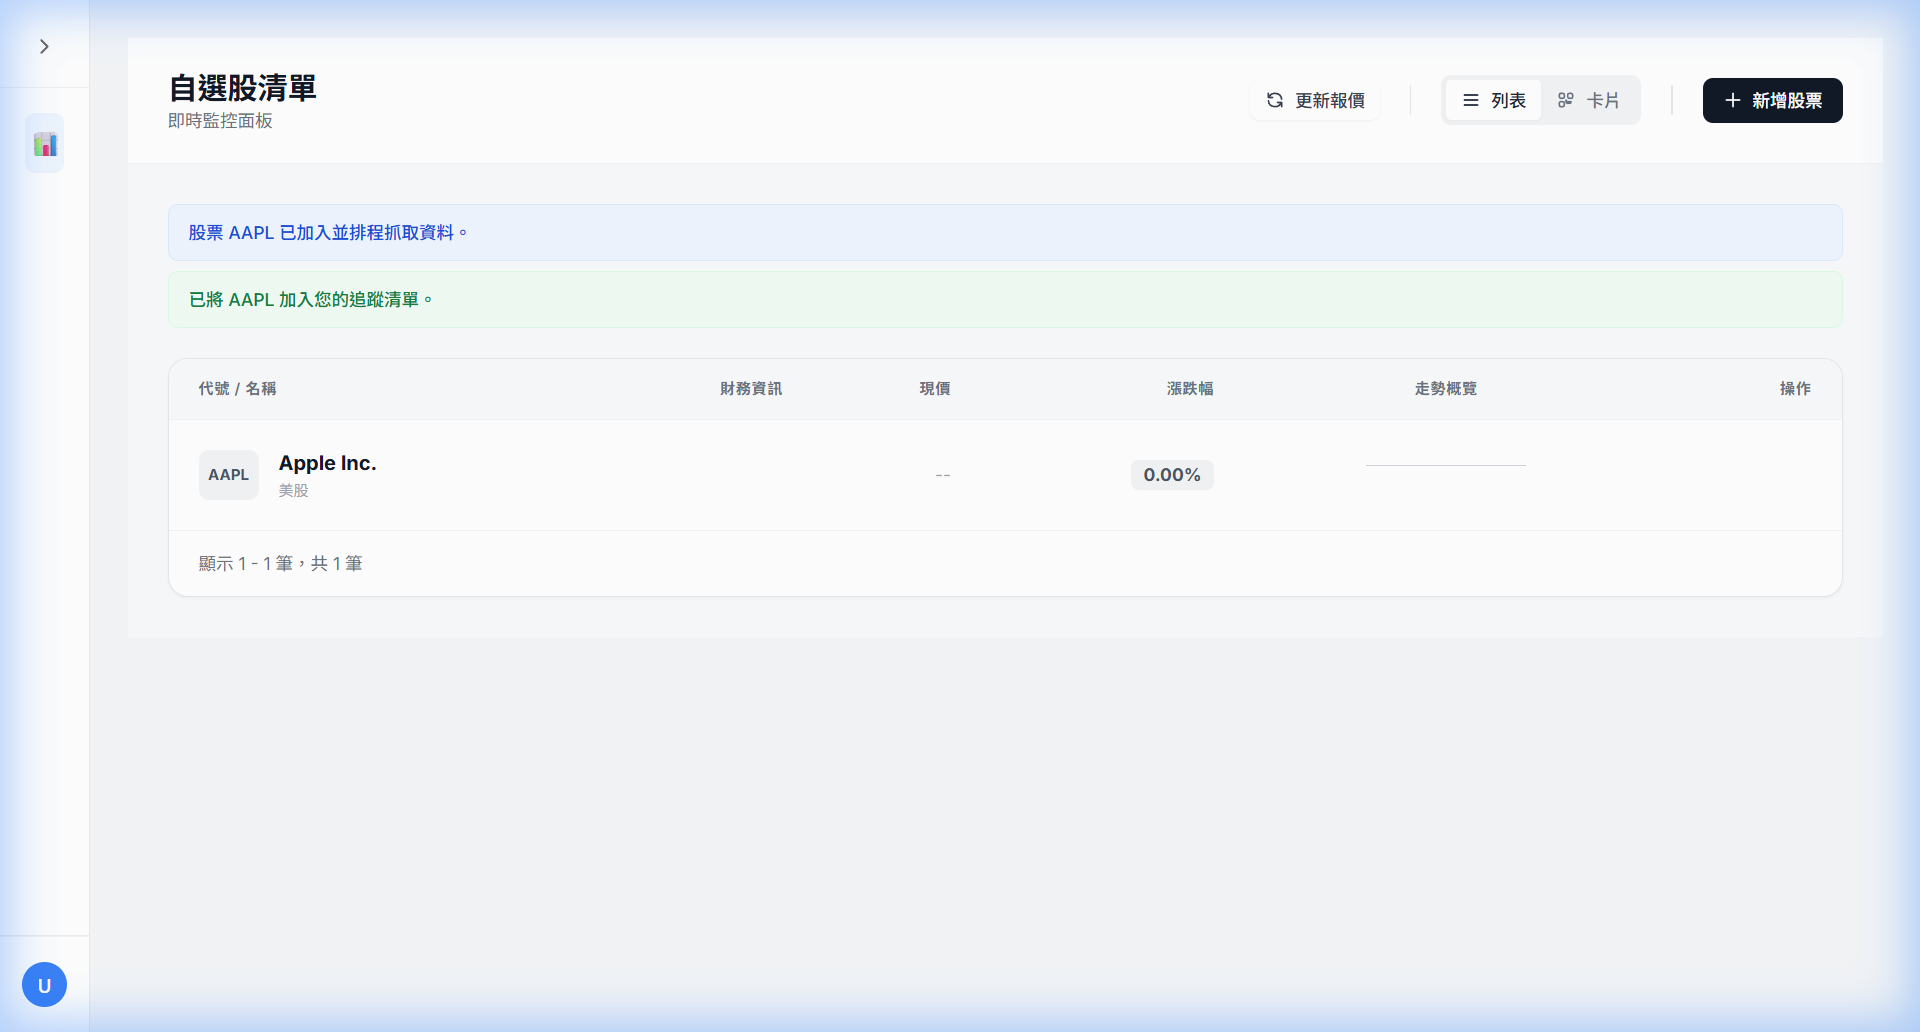
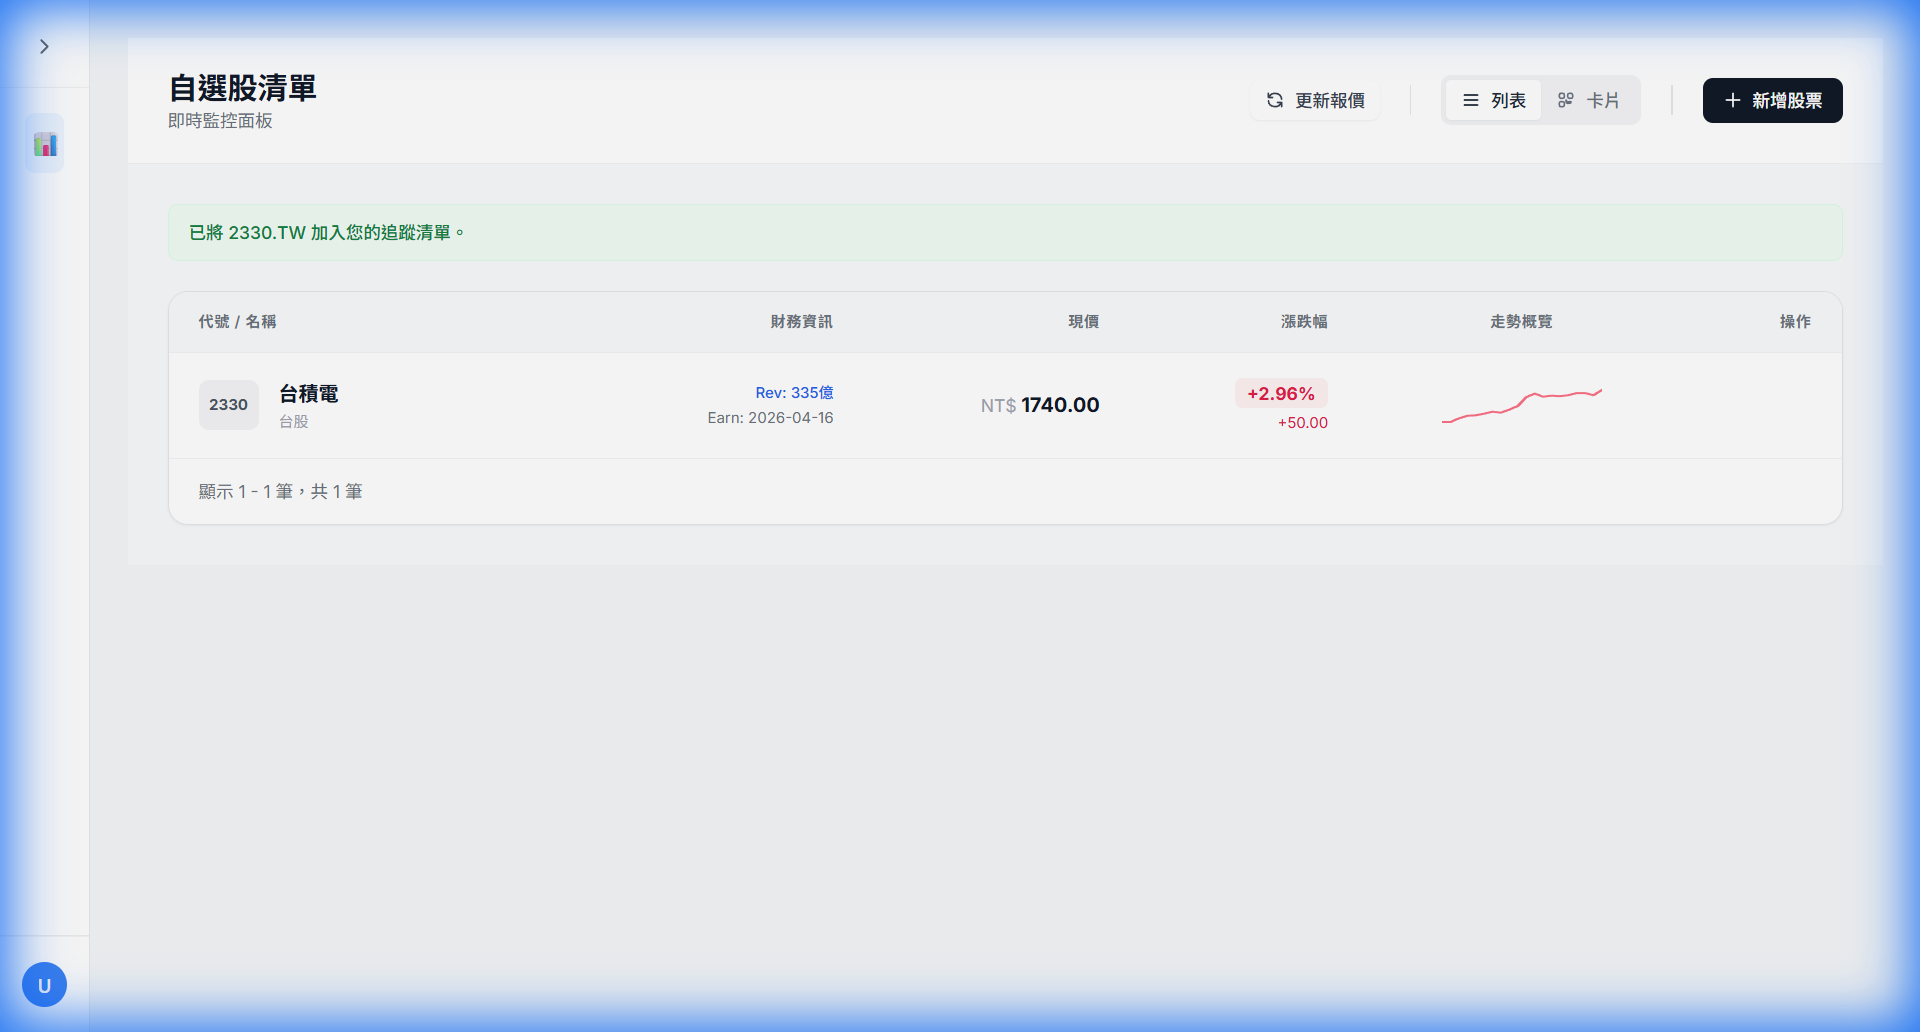
feat: 完善平台功能 - 載入動畫、通知系統、美化登入/註冊頁面、動態幣值顯示、Docker一鍵部署、更新README截圖

diff --git a/templates/dashboard.html b/templates/dashboard.html
@@ -159,14 +159,20 @@
                                 {% endif %}
                              </div>
                         </td>
-                        <td class="px-6 py-5 text-right">
+                        <td class="px-6 py-5 text-right" data-ticker="{{ item.stock.ticker }}">
                             {% if item.stock.last_price %}
-                            <div class="font-bold text-gray-900 text-base">
+                            <div class="font-bold text-gray-900 text-base price-display">
                                 <span class="text-gray-400 font-normal text-sm">{% if item.stock.market == 'TW' %}NT${% else %}${% endif %}</span>
                                 {{ item.stock.last_price }}
                             </div>
                             {% else %}
-                            <div class="text-gray-400 text-sm">--</div>
+                            <div class="loading-indicator flex items-center gap-2 text-blue-600">
+                                <svg class="animate-spin h-4 w-4" xmlns="http://www.w3.org/2000/svg" fill="none" viewBox="0 0 24 24">
+                                    <circle class="opacity-25" cx="12" cy="12" r="10" stroke="currentColor" stroke-width="4"></circle>
+                                    <path class="opacity-75" fill="currentColor" d="M4 12a8 8 0 018-8V0C5.373 0 0 5.373 0 12h4zm2 5.291A7.962 7.962 0 014 12H0c0 3.042 1.135 5.824 3 7.938l3-2.647z"></path>
+                                </svg>
+                                <span class="text-sm">載入中...</span>
+                            </div>
                             {% endif %}
                         </td>
 
@@ -505,9 +511,78 @@
             if (e.target === removeModal) removeModal.classList.add('hidden');
             if (e.target === refreshModal) refreshModal.classList.add('hidden');
         }
+        // Loading Stocks Polling
+        const loadingStocks = {{ loading_stocks_json|safe }};
+        if (loadingStocks && loadingStocks.length > 0) {
+            console.log('Polling for loading stocks:', loadingStocks);
+            
+            const pollInterval = setInterval(() => {
+                fetch('/stocks/api/check-loading-status/', {
+                    method: 'POST',
+                    headers: {
+                        'Content-Type': 'application/json',
+                        'X-CSRFToken': document.querySelector('[name=csrfmiddlewaretoken]')?.value || ''
+                    },
+                    body: JSON.stringify({ tickers: loadingStocks })
+                })
+                .then(res => res.json())
+                .then(data => {
+                    if (data.ready && data.ready.length > 0) {
+                        showNotification(`${data.ready.join(', ')} 資料已更新完成！`, 'success');
+                        clearInterval(pollInterval);
+                    }
+                })
+                .catch(err => console.log('Poll error:', err));
+            }, 5000); // Check every 5 seconds
+        }
     });
 
     // Check URL param for saved view preference (Optional enhancement)
+</script>
+
+<!-- Toast Notification Container -->
+<div id="toast-container" class="fixed bottom-4 right-4 z-50 flex flex-col gap-2"></div>
+
+<script>
+    function showNotification(message, type = 'info') {
+        const container = document.getElementById('toast-container');
+        const toast = document.createElement('div');
+        
+        const colors = {
+            success: 'bg-green-500',
+            error: 'bg-red-500',
+            info: 'bg-blue-500',
+            warning: 'bg-yellow-500'
+        };
+        
+        toast.className = `${colors[type] || colors.info} text-white px-6 py-3 rounded-lg shadow-lg flex items-center gap-3 transform transition-all duration-300 translate-x-full`;
+        toast.innerHTML = `
+            <svg class="w-5 h-5 flex-shrink-0" fill="none" stroke="currentColor" viewBox="0 0 24 24">
+                ${type === 'success' 
+                    ? '<path stroke-linecap="round" stroke-linejoin="round" stroke-width="2" d="M5 13l4 4L19 7"></path>'
+                    : '<path stroke-linecap="round" stroke-linejoin="round" stroke-width="2" d="M13 16h-1v-4h-1m1-4h.01M21 12a9 9 0 11-18 0 9 9 0 0118 0z"></path>'
+                }
+            </svg>
+            <span class="font-medium">${message}</span>
+            <button onclick="this.parentElement.remove()" class="ml-2 hover:opacity-75">
+                <svg class="w-4 h-4" fill="none" stroke="currentColor" viewBox="0 0 24 24">
+                    <path stroke-linecap="round" stroke-linejoin="round" stroke-width="2" d="M6 18L18 6M6 6l12 12"></path>
+                </svg>
+            </button>
+            <a href="javascript:location.reload()" class="ml-1 underline text-sm hover:opacity-75">刷新頁面</a>
+        `;
+        
+        container.appendChild(toast);
+        
+        // Animate in
+        setTimeout(() => toast.classList.remove('translate-x-full'), 10);
+        
+        // Auto remove after 10 seconds
+        setTimeout(() => {
+            toast.classList.add('translate-x-full');
+            setTimeout(() => toast.remove(), 300);
+        }, 10000);
+    }
 </script>
 
 {% endblock %}

diff --git a/stocks/views.py b/stocks/views.py
@@ -124,7 +124,7 @@ def dashboard(request):
     context = {
         'watchlist': page_obj, # Pass page_obj as watchlist for iteration
         'stock_data_json': json.dumps(stock_data_for_chart),
-        'loading_stocks': loading_stocks,
+        'loading_stocks_json': json.dumps(list(loading_stocks)),
     }
     return render(request, 'dashboard.html', context)
 
@@ -425,3 +425,31 @@ def get_latest_price(request, ticker):
 
     except Exception as e:
         return JsonResponse({'error': str(e)}, status=500)
+
+@login_required
+def check_loading_status(request):
+    """
+    API endpoint to check if stocks have finished loading their data.
+    Returns which stocks now have price data available.
+    """
+    import json
+    
+    if request.method == 'POST':
+        try:
+            body = json.loads(request.body)
+            tickers = body.get('tickers', [])
+            
+            ready = []
+            for ticker in tickers:
+                try:
+                    stock = Stock.objects.get(ticker=ticker)
+                    if stock.last_price is not None or stock.prices.exists():
+                        ready.append(ticker)
+                except Stock.DoesNotExist:
+                    pass
+            
+            return JsonResponse({'ready': ready, 'pending': [t for t in tickers if t not in ready]})
+        except Exception as e:
+            return JsonResponse({'error': str(e)}, status=400)
+    
+    return JsonResponse({'error': 'POST required'}, status=405)

diff --git a/stocks/urls.py b/stocks/urls.py
@@ -8,4 +8,5 @@ urlpatterns = [
     path('api/stock/<str:ticker>/', views.stock_detail_api, name='stock_detail_api'),
     path('stock/<str:ticker>/', views.stock_detail, name='stock_detail'),
     path('api/price/<str:ticker>/', views.get_latest_price, name='get_latest_price'),
+    path('api/check-loading-status/', views.check_loading_status, name='check_loading_status'),
 ]

diff --git a/README.md b/README.md
@@ -43,7 +43,7 @@
 
 ![功能展示](docs/feature_demo.webp)
 
-> 動畫展示：登入 → 新增股票 → 儀表板顯示
+> 動畫展示完整操作流程：登入 → 新增股票 → 儀表板顯示 → 股票詳情頁
 
 ### 登入頁面
 
@@ -52,6 +52,12 @@
 ### 儀表板
 
 ![儀表板](docs/dashboard_screenshot.png)
+
+### 股票詳情頁
+
+![股票詳情](docs/stock_detail_screenshot.png)
+
+> 包含 K 線圖、技術指標 (RSI, MA)、財務診斷指標 (ROE, ROA, 毛利率等) 及相關新聞
 
 ## 技術棧 (Tech Stack)
 
